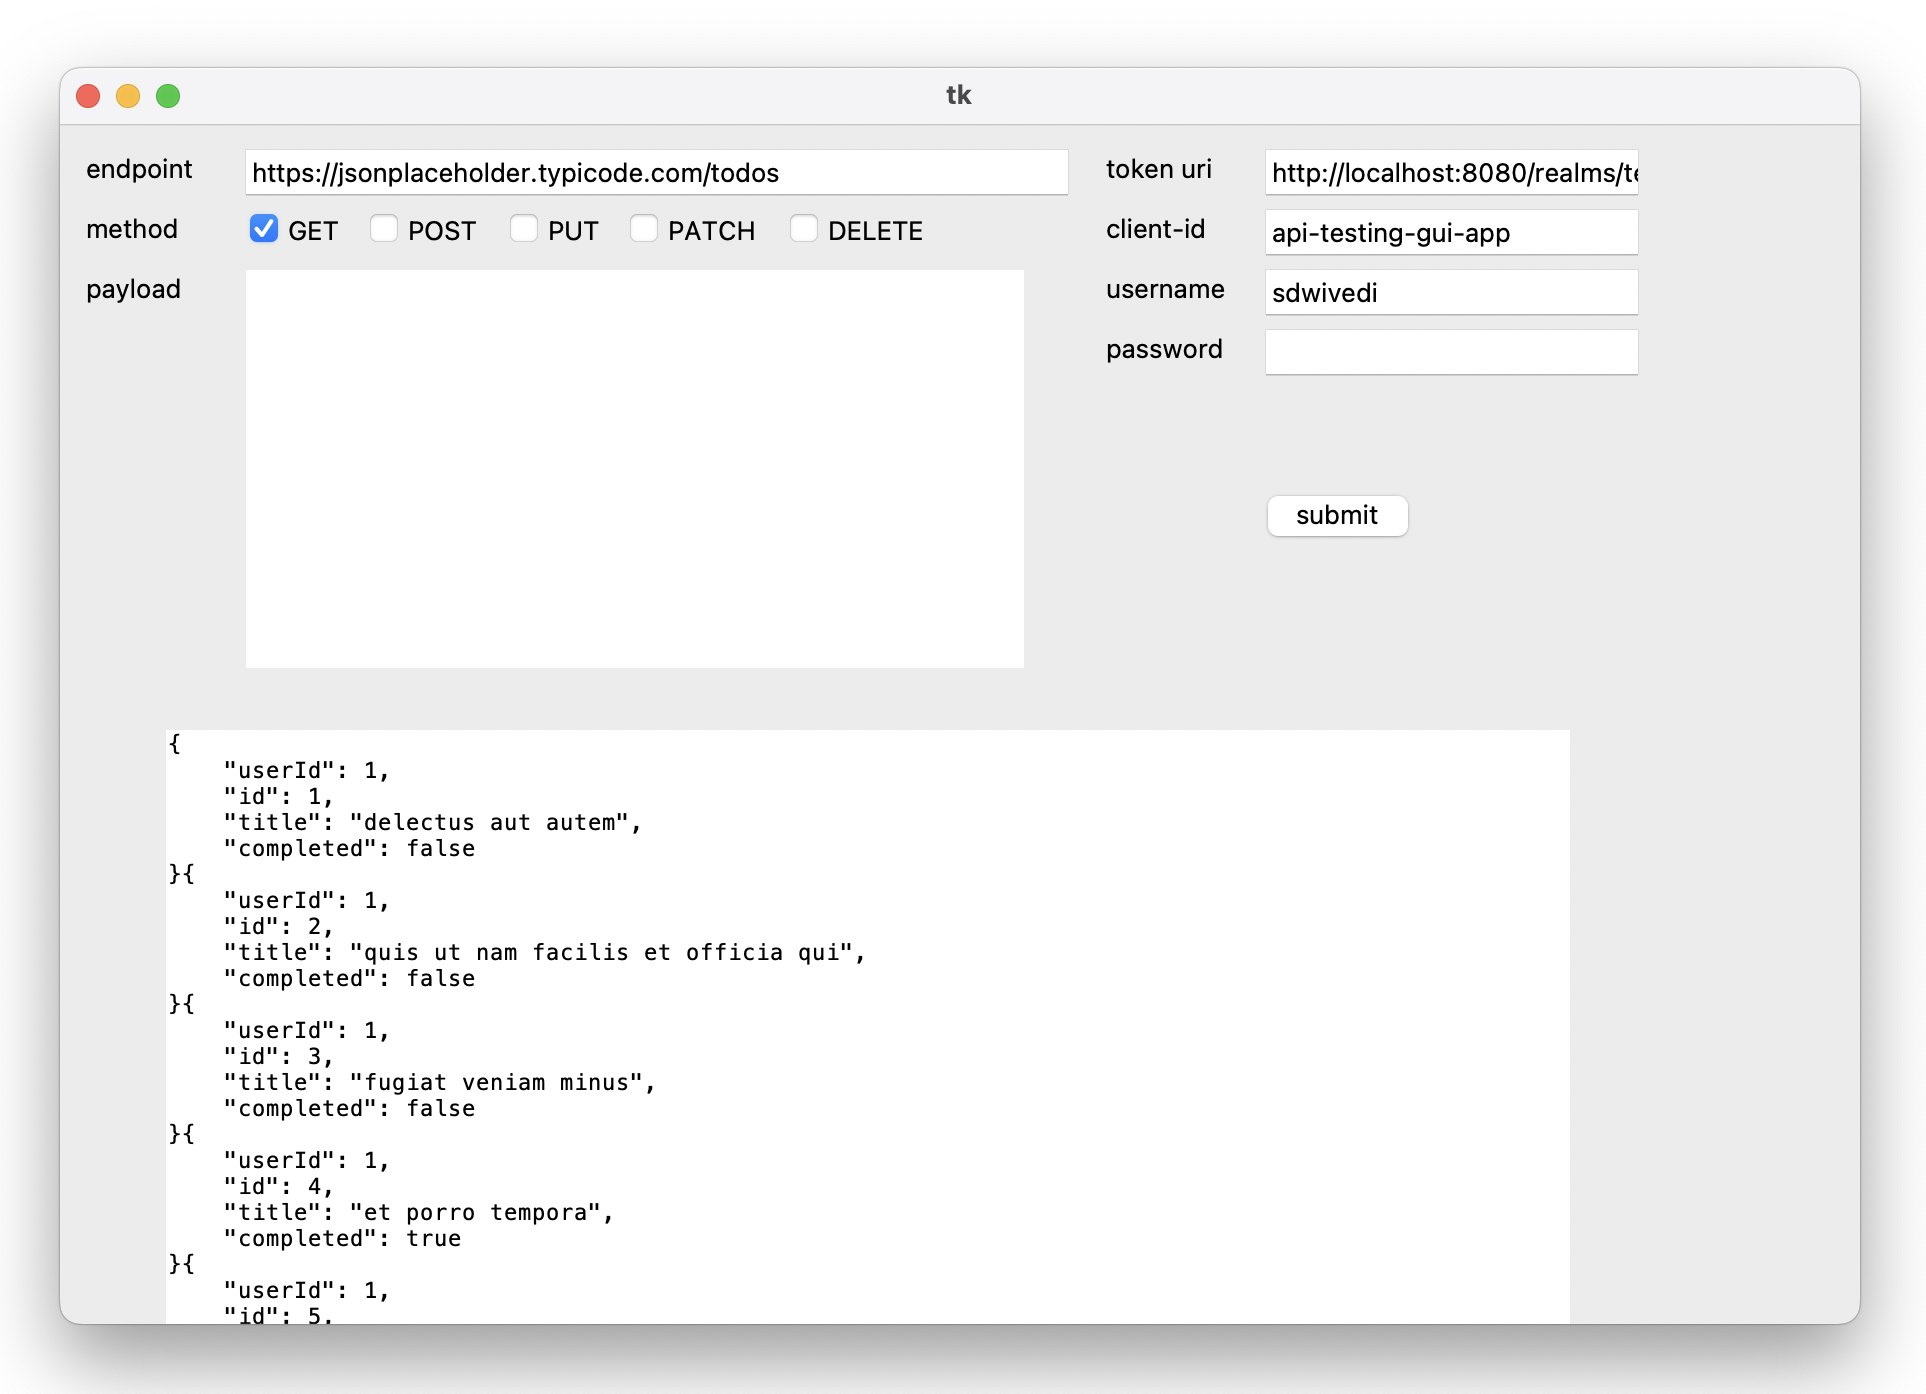
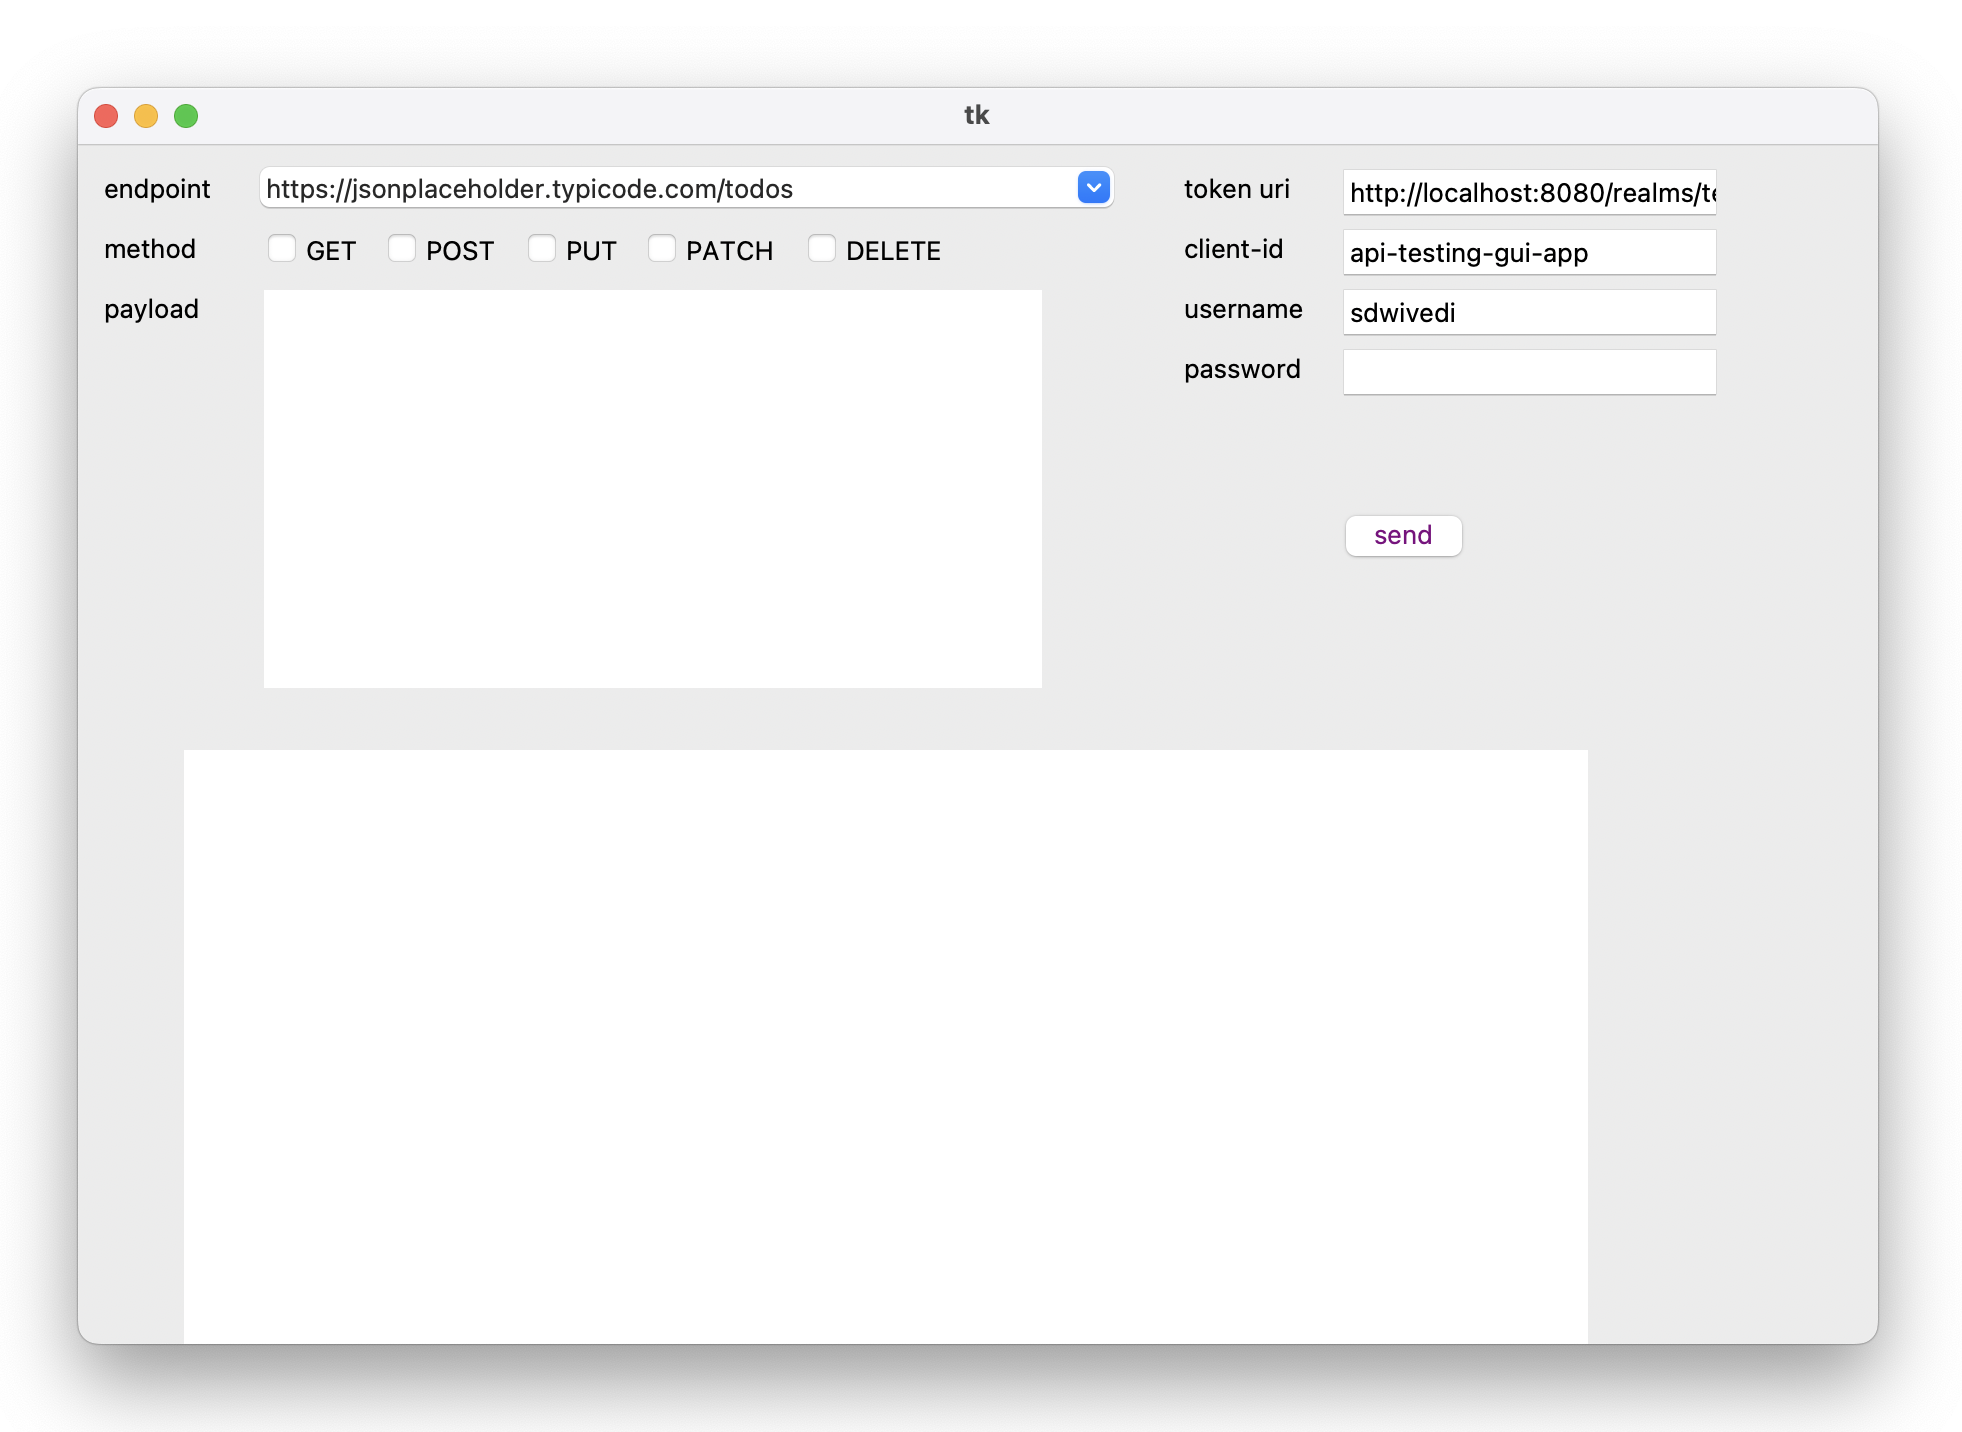
Add endpoints history

diff --git a/Python/api-testing-gui-app/src/controller.py b/Python/api-testing-gui-app/src/controller.py
@@ -15,14 +15,14 @@ class Controller:
         self.view._result.delete("1.0", "end")
         endpoint = self.view._endpoint.get()
 
-        with open("./endpoints.txt", "a") as f:
+        with open("endpoints.txt", "a") as f:
             f.write(endpoint + "\n")
 
-        with open("./endpoints.txt", "r") as f:
+        with open("endpoints.txt", "r") as f:
             lines = [line.rstrip("\n") for line in f.readlines()]
             self.view._endpoint["values"] = sorted(tuple(set(lines)))
 
-        with open("./endpoints.txt", "w") as f:
+        with open("endpoints.txt", "w") as f:
             for line in self.view._endpoint["values"]:
                 f.write(line + "\n")
 

diff --git a/Python/api-testing-gui-app/src/view.py b/Python/api-testing-gui-app/src/view.py
@@ -108,13 +108,13 @@ class View:
         self._result.place(x=50, y=0)
 
         # Populate default values from environment
-        with open("./endpoints.txt", "a") as f:
+        with open("endpoints.txt", "a") as f:
             f.write(
                 os.getenv("ENDPOINT", "https://jsonplaceholder.typicode.com/todos")
                 + "\n"
             )
 
-        with open("./endpoints.txt") as f:
+        with open("endpoints.txt") as f:
             lines = [line.rstrip("\n") for line in f.readlines()]
             self._endpoint["values"] = sorted(tuple(set(lines)))
 

diff --git a/Python/api-testing-gui-app/README.md b/Python/api-testing-gui-app/README.md
@@ -34,5 +34,5 @@ python3 app.py
 ### Alias
 
 ```bash
-alias apitest='source <path-to-directory>/env.list && python3 <path-to-directory>/app.py'
+alias apitest='cd <path-to-directory> && source env.list && python3 app.py'
 ```
